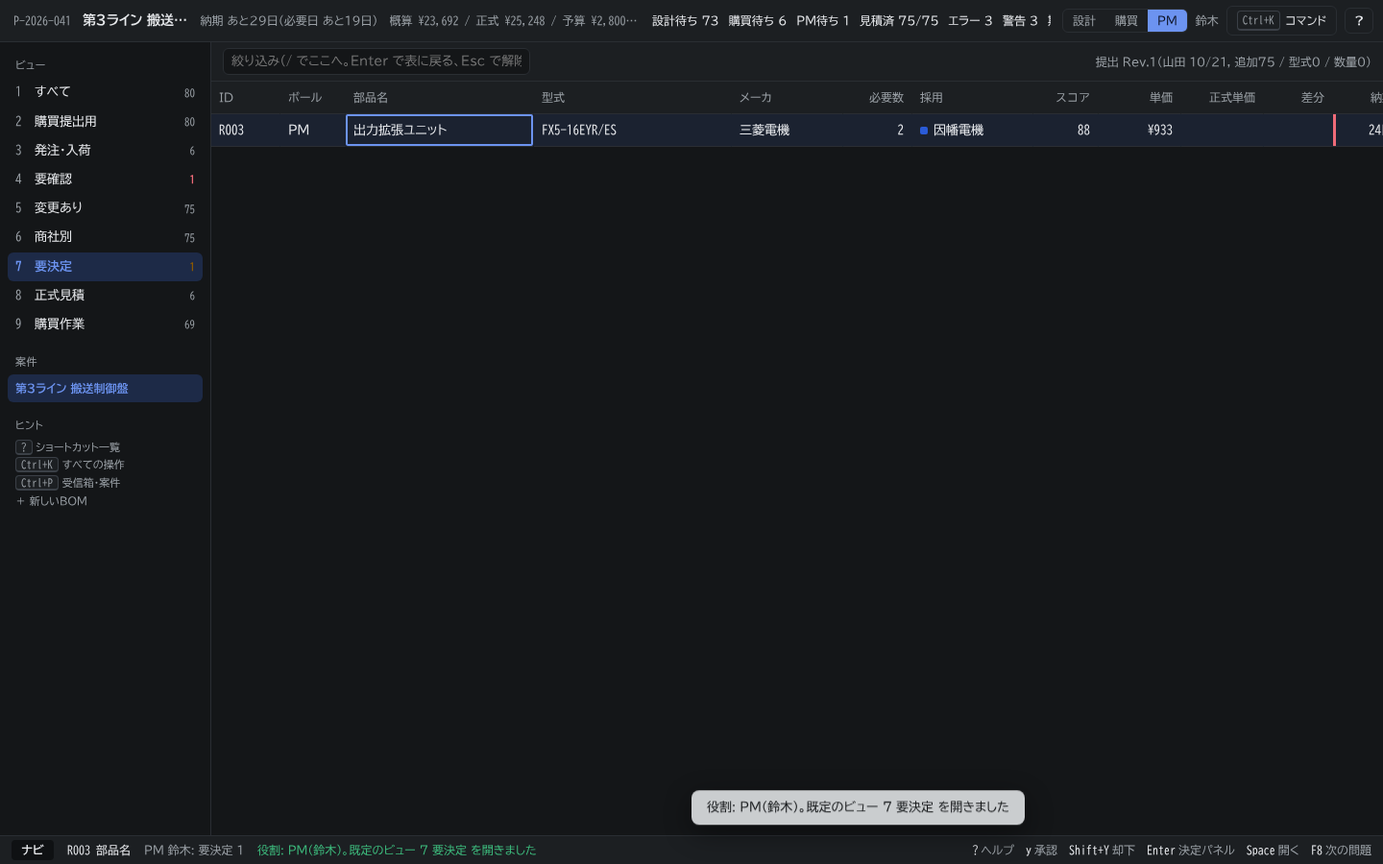
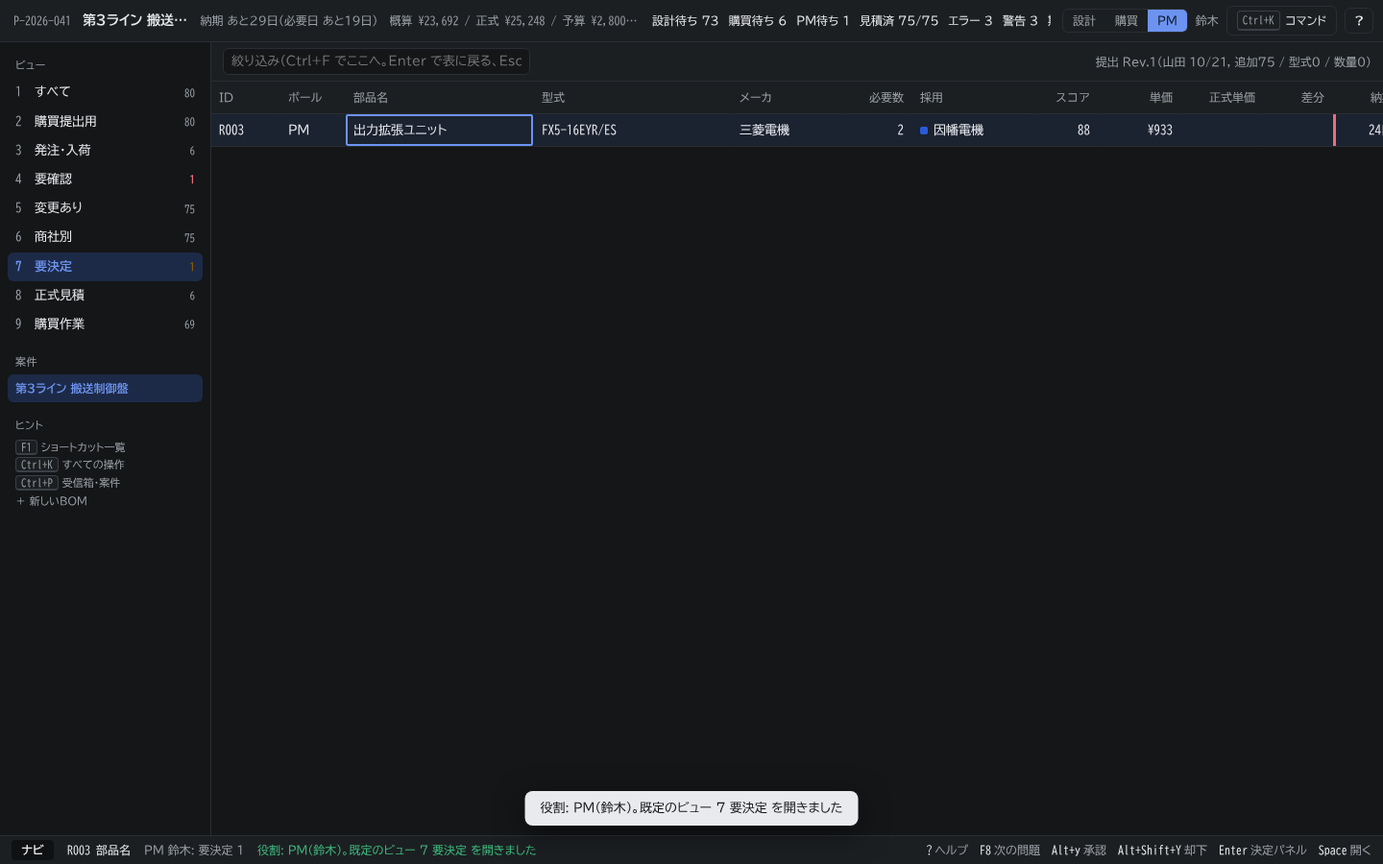
Round 8 newbie fixes: plain keys only on command columns (PM y in 7), named hints, F1/Ctrl+F, import variants
- Remove the 'no editable column → plain keys anywhere' rule; only PM's y / Shift+Y work on any column in view 7
- Non-editable-column hints name the command (「入荷済」は Alt+i) instead of echoing the last letter
- Fixed texts use F1 (help) and Ctrl+F (filter); F1 and Ctrl+F work while editing; F8 hint kept near the front
- F8 continues from the last problem even after Enter moved the cursor; issues fixed and awaiting publish are skipped
- Sheet scoring reads 30 rows; Excel-hidden columns are not imported; more total/section row variants; quote headers with units
- Select columns select-all on Enter; solid error color for white-text toasts; 特急・分納 cap guidance; cursor relocates after undo/redo

Claude-Session: https://claude.ai/code/session_01VLU869jRMj6qD9nzBFt6MK

Changed region(s): [[0.375, 0.9022, 1.0, 0.9956], [0.2188, 0.0622, 0.375, 0.0933], [0.0312, 0.4978, 0.0938, 0.5289]]

diff --git a/src/commands/registry.ts b/src/commands/registry.ts
@@ -185,7 +185,7 @@ export function startEdit(initial?: string) {
   const cur = cellText(r, s.cursorCol, vm().ctx)
   const value = initial ?? String(cur.raw ?? '')
   editProject = projectIdentity()
-  set({ mode: 'edit', editValue: value, editError: null, editAuto: false, editSelectAll: initial === undefined && value !== '' && (d.kind === 'num' || d.kind === 'date'), editBase: String(cur.raw ?? ''), editCandidates: d.kind === 'select' ? candidates(d.options ?? [], initial ?? '') : null })
+  set({ mode: 'edit', editValue: value, editError: null, editAuto: false, editSelectAll: initial === undefined && value !== '' && (d.kind === 'num' || d.kind === 'date' || d.kind === 'select'), editBase: String(cur.raw ?? ''), editCandidates: d.kind === 'select' ? candidates(d.options ?? [], initial ?? '') : null })
 }
 function toggleBool(r: Row, col: string) {
   const v = (r as unknown as Record<string, unknown>)[col] === true
@@ -351,8 +351,11 @@ function problemCells(): Array<{ rowId: string; field: string }> {
   const kinds = ISSUE_KINDS.map((k) => k.kind)
   for (const r of p.rows) {
     if (!isActive(r)) continue
+    const changed = Object.keys(r.working ?? {})
     for (const i of openIssues(p, r.id)) {
       const b = i.status === 'open' || i.status === 'inProgress' ? issues.issueBallRole(i) : i.by.role
+      // 設計が直して公開を待っている指摘（指摘のセルが作業中で変わった）は、もう直す問題として回らない
+      if (role === 'design' && b === 'design' && (i.field ? changed.includes(i.field as string) : changed.includes('model') || changed.includes('maker'))) continue
       if (b === role) out.push({ rowId: r.id, field: (i.field as string) ?? 'model', order: kinds.indexOf(i.kind) })
     }
     if (role === 'design') for (const pr of checkRow(r, s.ws.rules, p)) out.push({ rowId: r.id, field: pr.field, order: 20 + (pr.severity === 'error' ? 0 : 1) })
@@ -380,19 +383,25 @@ function gotoProblem(delta: 1 | -1): boolean {
   const idx = stay ? list.findIndex((x) => x.rowId === s.cursorRow) : list.findIndex((x) => x.rowId === s.cursorRow && x.field === s.cursorCol)
   let next = idx < 0 ? (delta > 0 ? 0 : list.length - 1) : (idx + delta + list.length) % list.length
   // 直した・確認した問題は一覧から消えるので、前に飛んだ位置から続ける（先頭に戻って間の問題を飛ばさない）
-  if (idx < 0 && lastProblem && lastProblem.rowId === s.cursorRow) {
-    const at = Math.min(lastProblem.idx, list.length) // 消えた問題の次は同じ番号に詰まっている
-    next = delta > 0 ? at % list.length : (at - 1 + list.length) % list.length
+  // （直したあと Enter で下の行へ移っていても同じ）
+  if (idx < 0 && lastProblem) {
+    const lp = lastProblem
+    const j = list.findIndex((x) => x.rowId === lp.rowId && x.field === lp.field)
+    if (j >= 0) next = (j + delta + list.length) % list.length
+    else {
+      const at = Math.min(lp.idx, list.length) // 消えた問題の次は同じ番号に詰まっている
+      next = delta > 0 ? at % list.length : (at - 1 + list.length) % list.length
+    }
   }
   // 列を変えないときは、同じ行の別の問題を飛ばして次の行へ
   if (stay && idx >= 0) while (list[next].rowId === s.cursorRow && next !== idx) next = (next + delta + list.length) % list.length
-  lastProblem = { rowId: list[next].rowId, idx: next }
+  lastProblem = { rowId: list[next].rowId, field: list[next].field, idx: next }
   if (stay) jumpToRow(list[next].rowId)
   else jumpToRow(list[next].rowId, list[next].field)
   return true
 }
 /** 最後に F8 / n で飛んだ問題（行と一覧の中の番号） */
-let lastProblem: { rowId: string; idx: number } | null = null
+let lastProblem: { rowId: string; field: string; idx: number } | null = null
 
 // ---------- Ctrl+. 候補 ----------
 export function quickfixOptions(r: Row, field: string): PanelOption[] {
@@ -636,7 +645,12 @@ function decideWithReason(rowId: string, kind: Parameters<typeof pm.decide>[1]) 
     }
     let amount: number | undefined
     // 特急・分納は上限金額を入れる（§9.1「上限入力」）
-    if (kind === '特急・分納' && !(extra?.['上限金額'] ?? '').trim()) return '特急・分納の上限金額を入れてください（例: 30000）'
+    if (kind === '特急・分納' && !(extra?.['上限金額'] ?? '').trim())
+      return /^[\d,.¥￥円\s]+$/.test(text.trim()) && text.trim()
+        ? `「${text.trim()}」は理由の欄に入っています。Tab で下の「上限金額」の欄へ移って金額を入れ、理由の欄には理由を書いてください`
+        : '特急・分納の上限金額を入れてください（Tab で下の「上限金額」の欄へ。例: 30000）'
+    // 理由の欄に金額だけを入れたまま確定しない（理由が「50000」と残らないように）
+    if (kind === '特急・分納' && /^[\d,.¥￥円\s]+$/.test(text.trim()) && text.trim()) return '理由の欄が金額だけです。理由を書いてください（金額は「上限金額」の欄）'
     if (extra?.['上限金額']) {
       const n = parseNumber(extra['上限金額'], { min: 0, label: '上限金額' })
       if (!n.ok) return n.error
@@ -1012,9 +1026,14 @@ export function runCommand(id: string, e?: KeyboardEvent): void {
       s.commitWs('', () => {})
       return toast('保存しました（編集は自動で保存されています）', 'ok')
     case 'undo':
-      return s.undoLast()
-    case 'redo':
-      return s.redoLast()
+    case 'redo': {
+      // 戻した・やり直した結果、カーソルの行が消えた（置換で作った行など）ときは近くの行へ
+      const before = vm().rows.map((x) => x.id)
+      if (id === 'undo') s.undoLast()
+      else s.redoLast()
+      keepCursorVisible(before)
+      return
+    }
     case 'export.excel': {
       const done = (label: string, sid?: string) => (m: typeof import('@/io/excel')) =>
         m
@@ -1654,7 +1673,7 @@ export const STATIC: Array<{ id: string; label: string; section: string; desc?: 
   { id: 'theme.toggle', label: 'ダークモード切替', section: '表示', keywords: 'ダーク 暗い 暗く 明るく ライト テーマ 色' },
   { id: 'density.toggle', label: 'コンパクト表示切替', section: '表示', keywords: '行の高さ 小さく 大きく 文字 拡大 縮小 見やすく' },
   { id: 'sort.asc', label: '今の列で並び替え', section: '表示', desc: 's 昇順 / Shift+S 降順。列見出しのクリックでも', keywords: 'ソート sort 並べ替え 順番' },
-  { id: 'filter.focus', label: '絞り込み検索', section: '表示', desc: '/ で入力欄へ', keywords: 'フィルタ filter 検索 探す さがす' },
+  { id: 'filter.focus', label: '絞り込み検索', section: '表示', desc: 'Ctrl+F で入力欄へ', keywords: 'フィルタ filter 検索 探す さがす' },
   { id: 'columns.panel', label: '列の表示・非表示', section: '表示', keywords: '列 カラム 隠す 見えない' },
   { id: 'goto', label: '行へジャンプ（ID・回路記号・型式）', section: '表示', keywords: '移動 ジャンプ 探す 行へ' },
   { id: 'row.toggleHidden', label: '行を隠す / 隠した行を戻す', section: '編集', desc: '隠した行は 1 すべてに薄く出ます', keywords: '非表示 隠した 隠す 戻す 表示' },

diff --git a/src/commands/keyboard.ts b/src/commands/keyboard.ts
@@ -11,7 +11,7 @@ import * as adopt from '@/actions/adopt'
 import * as pm from '@/actions/pm'
 import * as rows from '@/actions/rows'
 import { settingsFields } from '@/ui/settingsFields'
-import { ROLE_DEFAULT_VIEW, vm, cancelEdit, closePanel, colsForPanel, commitEdit, createProjectFromWizard, ensureCursor, gotoProblem, jumpToRow, moveCursorRow, openQuickfix, paletteItems, problemCells, prompt, runCommand, saveSettings, setView, startEdit, updateEditValue, validateSetting, validateWizardStep, visibleCursorRow } from './registry'
+import { ROLE_DEFAULT_VIEW, cancelEdit, closePanel, colsForPanel, commitEdit, createProjectFromWizard, ensureCursor, gotoProblem, jumpToRow, moveCursorRow, openQuickfix, paletteItems, problemCells, prompt, runCommand, saveSettings, setView, startEdit, updateEditValue, validateSetting, validateWizardStep, visibleCursorRow } from './registry'
 
 const st = () => useStore.getState()
 const set = (p: Partial<State>) => useStore.setState(p)
@@ -73,7 +73,7 @@ function handlePanelKey(key: string, e: KeyboardEvent): boolean {
         if (it) {
           set({ recentCommands: [it.id, ...s.recentCommands.filter((x) => x !== it.id)].slice(0, 20) })
           it.run()
-        } else toast('該当する操作がありません（? でショートカット一覧）', 'info')
+        } else toast('該当する操作がありません（F1 でショートカット一覧）', 'info')
         return true
       }
       return key === 'Ctrl+K' ? (closePanel(), true) : false
@@ -419,8 +419,8 @@ export function onCommandCell(ch = ''): boolean {
   if (s.cursorCol === 'id' || s.cursorCol === 'status' || colDef(s.cursorCol)?.kind === 'bool') return true
   // 自分が書けない列では、数字・記号は 1 キー操作（値にならないので、打ち間違えても何も書き換わらない）
   if ((/^\d$/.test(ch) || sym) && rows.canEdit(s.cursorCol)) return true
-  // このビューに自分が書ける列が 1 つも無いとき（PM はどの列も書かない）は、どの列でも 1 キー操作（§9.1: 7 の y / Shift+Y）
-  return !vm().columns.some((c) => !rows.canEdit(c))
+  // §9.1: PM の 7 では y / Shift+Y がどの列でもそのまま効く（ほかの英字は単語を打ったときに 1 文字ずつ操作にならないよう Alt）
+  return s.user().role === 'pm' && s.view === 7 && (ch === 'y' || ch === 'Y')
 }
 /** Alt+英字・Alt+数字 → その 1 キー操作（Alt 付きで別に決まっている操作があればそちらが先） */
 function altBinding(key: string) {
@@ -572,7 +572,7 @@ export function handleKeyDown(e: KeyboardEvent) {
       return
     }
     // 編集中のグローバルキー: 確定してから実行（Ctrl+Z はブラウザの入力欄の取り消しに任せる）
-    if (['Ctrl+K', 'Ctrl+S', 'Ctrl+Enter', 'Ctrl+E', 'Ctrl+P', 'Ctrl+G', 'Ctrl+Shift+C', 'Ctrl+.', 'Ctrl+Shift+F'].includes(key)) {
+    if (['Ctrl+K', 'Ctrl+S', 'Ctrl+Enter', 'Ctrl+E', 'Ctrl+P', 'Ctrl+G', 'Ctrl+Shift+C', 'Ctrl+.', 'Ctrl+Shift+F', 'Ctrl+F', 'F1'].includes(key)) {
       e.preventDefault()
       const b = lookupBinding(key, 'nav')
       if (b && commitEdit('stay')) runCommand(b.id, e)
@@ -592,7 +592,7 @@ export function handleKeyDown(e: KeyboardEvent) {
     runCommand(b.id, e)
     return
   }
-  if (/^(Ctrl\+)?Alt\+(Shift\+)?[A-Z0-9]$/.test(key)) return toast(`${key} は割り当てがありません（? でキーの一覧）`, 'info')
+  if (/^(Ctrl\+)?Alt\+(Shift\+)?[A-Z0-9]$/.test(key)) return toast(`${key} は割り当てがありません（F1 でキーの一覧）`, 'info')
   // 割り当ての無い文字 → 上書き編集（Excel と同じ）
   const ch = e.key
   if (ch.length === 1 && !e.ctrlKey && !e.metaKey && !e.altKey) {
@@ -600,7 +600,12 @@ export function handleKeyDown(e: KeyboardEvent) {
     const r = visibleCursorRow()
     if (!r) return toast('行を選んでください（↓ で先頭の行へ、F8 で最初の問題へ。英字の 1 キー操作は Alt を押しながら）', 'info')
     const err = rows.canEdit(s.cursorCol)
-    if (err) return toast(`${err}。1 キー操作は Alt を押しながら（例: ${/[A-Z]/.test(ch) ? `Alt+Shift+${ch}` : `Alt+${ch}`}）か、ID の列で`, 'info')
+    if (err) {
+      // 打ったキーの操作名も書く（単語を打ったときに、最後の文字の操作を知らずに Alt で押さないように）
+      const alt = /[A-Z]/.test(ch) ? `Alt+Shift+${ch}` : `Alt+${ch}`
+      const bound = lookupBinding(/[A-Z]/.test(ch) ? `Shift+${ch}` : ch, 'nav')
+      return toast(`${err}。${bound ? `「${bound.label}」は ${alt}（または ID の列で ${ch}）` : '1 キー操作は Alt を押しながらか、ID の列で'}。キーの一覧は F1`, 'info')
+    }
     startEdit(ch)
   }
 }

diff --git a/src/io/paste.ts b/src/io/paste.ts
@@ -149,9 +149,9 @@ export function parseBomPaste(text: string): PasteResult {
 
   if (hasHeader && !mapping.includes('name') && !mapping.includes('model')) warnings.push('見出しに「部品名」「型式」に当たる列がありません')
   // 小計・合計の行は部品ではない
-  const isTotal = (l: string[]) => l.some(isTotalCell)
+  const isTotal = (l: string[]) => l.some(isTotalCell) || isSectionLine(l)
   const totals = lines.slice(hasHeader ? 1 : 0).filter(isTotal).length
-  if (totals) warnings.push(`小計・合計の ${totals} 行は取り込みません`)
+  if (totals) warnings.push(`小計・合計・区切りの ${totals} 行は取り込みません`)
   const body = (hasHeader ? lines.slice(1) : lines).filter((l) => !isTotal(l))
   // 見出しが「Item」「No」でも中身が番号だけの列は部品名にしない（行番号の列）
   mapping = mapping.map((f, j) => (f === 'name' && body.length > 0 && body.every((l) => /^\s*\d+\s*$/.test(l[j] ?? '')) ? null : f))
@@ -209,13 +209,17 @@ export async function xlsxToTsv(buf: ArrayBuffer): Promise<string> {
   // シートが複数あるときは、見出し（部品名・型式・数量 など）のあるシートを読む（表紙・改訂履歴を部品にしない）
   const sheets = wb.worksheets.map((ws) => {
     const lines: string[] = []
+    // 非表示の列（Excel で隠した旧型式の列など）も取り込まない
+    const hiddenCols = new Set<number>()
+    for (let c = 1; c <= ws.columnCount; c++) if (ws.getColumn(c).hidden) hiddenCols.add(c)
     ws.eachRow({ includeEmpty: false }, (row) => {
       // 非表示の行（Excel で隠した行）は取り込まない
       if (row.hidden) return
-      const vals = (row.values as unknown[]).slice(1).map((v) => cellToText(v).replace(/[\t\n\r]/g, ' '))
+      const vals = (row.values as unknown[]).slice(1).map((v) => cellToText(v).replace(/[\t\n\r]/g, ' ')).filter((_, j) => !hiddenCols.has(j + 1))
       lines.push(vals.join('\t'))
     })
-    const score = lines.slice(0, 10).reduce((m, l) => Math.max(m, l.split('\t').map(detectField).filter(Boolean).length), 0)
+    // 見出しは上から 30 行まで探す（貼り付けの見出し探しと同じ。表題欄が長いシート）
+    const score = lines.slice(0, 30).reduce((m, l) => Math.max(m, l.split('\t').map(detectField).filter(Boolean).length), 0)
     return { name: ws.name, text: lines.join('\n'), score, rows: lines.length }
   })
   if (!sheets.length) return ''
@@ -254,5 +258,12 @@ function cellToText(v: unknown): string {
 
 /** 小計・合計の行のラベル（「合計」「合計金額」「Grand Total:」など。どの列にあっても） */
 export function isTotalCell(c: string): boolean {
-  return /^(小計|合計|総計|計|total|sub\s*total|grand\s*total)(金額|額|数|数量|点数|amount|qty)?\s*[:：]?$/i.test(c.trim())
+  const t = c.replace(/[\s　]/g, '')
+  if (/^(以下余白|以下空白|以上)$/.test(t)) return true
+  return /^(小計|合計|総計|総合計|計|total|subtotal|grandtotal)(金額|額|数|数量|点数|amount|qty)?[:：]?([（(][^）)]*[）)])?$/i.test(t)
+}
+/** 区切り・分類の見出しの行（「■ 制御部」「【電源】」だけが入った行）。部品ではない */
+export function isSectionLine(cells: string[]): boolean {
+  const filled = cells.map((c) => c.trim()).filter(Boolean)
+  return cells.length > 1 && filled.length === 1 && /^[■□◆◇●○▼▽▲△★☆【［]/.test(filled[0])
 }

diff --git a/src/actions/quotes.ts b/src/actions/quotes.ts
@@ -1,4 +1,4 @@
-import { isTotalCell } from '@/io/paste'
+import { isSectionLine, isTotalCell } from '@/io/paste'
 import { useStore } from '@/model/store'
 import type { Project, Quote, Row } from '@/model/types'
 import { fixedSupplierId, handlesMaker, hasWork, isActive, isFixedProcurement, isQuotable, normalizeModel, orderQty, rowNeedDate } from '@/model/derive'
@@ -105,12 +105,14 @@ export function importQuoteAnswers(text: string, supplierId: string): ImportResu
   const lines = text.replace(/\r/g, '').split('\n').filter((l) => l.trim())
   if (!lines.length) return res
   // 依頼書のシートを丸ごと貼ったとき（表題・依頼No の行が先にある）も、見出しの行を探す
+  // 見出しの「単価（円）」「納期(日)」のような単位の注記・空白は外して見る
+  const headCell = (h: string) => h.replace(/[（(][^）)]*[）)]/g, '').replace(/[\s　]/g, '')
   const isHeader = (l: string) => {
-    const hs = l.split('\t').map((h) => h.trim())
+    const hs = l.split('\t').map(headCell)
     return (hs.includes('行ID') || hs.includes('ID')) && hs.includes('単価')
   }
   const headerAt = lines.slice(0, 20).findIndex(isHeader)
-  const header = (headerAt >= 0 ? lines[headerAt] : lines[0]).split('\t').map((h) => h.trim())
+  const header = (headerAt >= 0 ? lines[headerAt] : lines[0]).split('\t').map(headCell)
   const idx = (...names: string[]) => header.findIndex((h) => names.includes(h))
   const col = { id: idx('行ID', 'ID'), model: idx('型式'), price: idx('単価'), lead: idx('納期'), moq: idx('MOQ'), stock: idx('在庫区分', '在庫'), qty: idx('見積数量'), valid: idx('有効期限'), altModel: idx('代替型式'), altMaker: idx('代替メーカ', '代替メーカー'), altPrice: idx('代替単価'), altLead: idx('代替納期') }
   const hasHeader = col.id >= 0 && col.price >= 0
@@ -129,11 +131,11 @@ export function importQuoteAnswers(text: string, supplierId: string): ImportResu
     for (const line of body) {
       const cells = line.split('\t')
       // 小計・合計の行は回答ではない
-      if (cells.some(isTotalCell)) continue
+      if (cells.some(isTotalCell) || isSectionLine(cells)) continue
       const id = (hasHeader ? get(cells, col.id) : get(cells, 0)).toUpperCase()
       const r = p.rows.find((x) => x.id === id)
       if (!r || !isActive(r)) {
-        res.unmatched.push(id || line.slice(0, 20))
+        res.unmatched.push(id || line.replace(/\t+/g, ' ').trim().slice(0, 20))
         continue
       }
       if (r.status === 'ordered' || r.status === 'received') {

diff --git a/src/ui/StatusBar.tsx b/src/ui/StatusBar.tsx
@@ -44,8 +44,8 @@ export function StatusBar({ vm }: { vm: ViewModel }) {
   } else if (st.mode === 'nav' && !row) hints.push(['ArrowDown', '表へ'], ['n', '次の問題'])
   else if (st.mode === 'edit') hints.push(['Enter', '確定して下へ'], ['Tab', '確定して右へ'], ['Escape', '取り消し'])
   hints.push(['?', 'ヘルプ'])
-  // 幅が足りないときに切れないよう、公開とヘルプを先頭に
-  for (const k of ['?', 'Ctrl+Enter']) {
+  // 幅が足りないときに切れないよう、公開・ヘルプ・次の問題を先頭に
+  for (const k of ['F8', '?', 'Ctrl+Enter']) {
     const i = hints.findIndex((h) => h[0] === k)
     if (i > 0) hints.unshift(...hints.splice(i, 1))
   }
@@ -53,7 +53,7 @@ export function StatusBar({ vm }: { vm: ViewModel }) {
   if (st.mode === 'nav' && !onCommandCell('a')) for (const h of hints) if (/^(Shift\+)?[A-Za-z]$/.test(h[0])) h[0] = h[0] === 'n' ? 'F8' : `Alt+${h[0]}`
   if (!row) for (const h of hints) if (h[0] === 'n') h[0] = 'F8'
   // 文字を打てるセルでは ? も値になるので、ヘルプは F1 で案内する
-  if (st.mode === 'nav' && !onCommandCell('?')) for (const h of hints) if (h[0] === '?') h[0] = 'F1'
+  if (st.mode !== 'nav' || !onCommandCell('?')) for (const h of hints) if (h[0] === '?') h[0] = 'F1'
   const problemHint = (() => {
     if (!row) return ''
     const iss = openIssues(p, row.id).filter((i) => i.status === 'open' || i.status === 'inProgress')

diff --git a/src/styles/app.css b/src/styles/app.css
@@ -203,9 +203,9 @@ table.quotes th, table.quotes td { white-space: nowrap; padding: 4px 10px; }
 table.quotes tr.focus td, .issues li.focus { outline: 2px solid var(--accent); outline-offset: -2px; }
 /* トースト: 見落とさない大きさで表の下に浮かせる */
 .toast-float { position: fixed; left: 50%; bottom: 40px; transform: translateX(-50%); max-width: min(900px, 92vw); padding: 9px 16px; border-radius: 8px; background: var(--fg); color: var(--bg); font-size: 13px; box-shadow: var(--shadow); z-index: 60; pointer-events: none; animation: pop var(--dur) ease-out; }
-.toast-float.err { background: var(--err); color: #fff; }
+.toast-float.err { background: var(--err-solid); color: #fff; }
 .toast-float.ok { background: var(--ok); color: #fff; }
-.edit-error { position: absolute; z-index: 6; margin-top: 2px; background: var(--err); color: #fff; font-size: 11px; padding: 2px 6px; border-radius: 4px; white-space: nowrap; }
+.edit-error { position: absolute; z-index: 6; margin-top: 2px; background: var(--err-solid); color: #fff; font-size: 11px; padding: 2px 6px; border-radius: 4px; white-space: nowrap; }
 .empty-state { padding: 28px; color: var(--fg-muted); line-height: 1.9; }
 .empty-state kbd { margin: 0 2px; }
 .crash { padding: 40px; max-width: 760px; margin: 0 auto; line-height: 1.8; }

diff --git a/src/keys/keymap.ts b/src/keys/keymap.ts
@@ -24,7 +24,7 @@ export const KEYMAP: KeyBinding[] = [
   { id: 'export.excel', keys: ['Ctrl+E'], mode: 'any', section: '全体', label: 'Excelで出力' },
   { id: 'copy.formatted', keys: ['Ctrl+Shift+C'], mode: 'any', section: '全体', label: '表示中の行と列を書式つきでコピー' },
   { id: 'goto', keys: ['Ctrl+G'], mode: 'any', section: '全体', label: 'ID・型式・Noでジャンプ' },
-  { id: 'filter.focus', keys: ['/'], mode: 'nav', section: '全体', label: '絞り込み検索にフォーカス' },
+  { id: 'filter.focus', keys: ['/', 'Ctrl+F'], mode: 'nav', section: '全体', label: '絞り込み検索にフォーカス' },
   { id: 'help', keys: ['?', 'F1'], mode: 'nav', section: '全体', label: 'ショートカット一覧', hint: '?' },
   { id: 'escape', keys: ['Escape'], mode: 'any', section: '全体', label: '1段階戻る' },
   { id: 'wizard.back', keys: ['Alt+ArrowLeft'], mode: 'nav', section: '全体', label: 'ガイドで1つ前の段階へ（新しいBOM）' },

diff --git a/src/App.tsx b/src/App.tsx
@@ -139,7 +139,7 @@ function Main() {
       <Side vm={vm} />
       <main className="main">
         <div className="toolbar">
-          <input className="filter" placeholder="絞り込み（/ でここへ。Enter で表に戻る、Esc で解除）" value={st.filter} onChange={(e) => st.set({ filter: e.target.value })} data-testid="filter" />
+          <input className="filter" placeholder="絞り込み（Ctrl+F でここへ。Enter で表に戻る、Esc で解除）" value={st.filter} onChange={(e) => st.set({ filter: e.target.value })} data-testid="filter" />
           {st.filter && <span className="muted" style={{ fontSize: 12 }}>{vm.rows.length} 行</span>}
           {st.cellFilter && (
             <span className="chip" style={{ cursor: 'pointer' }} onClick={() => st.set({ cellFilter: null })} title="クリックか f / Esc で解除">

diff --git a/src/ui/Side.tsx b/src/ui/Side.tsx
@@ -28,7 +28,7 @@ export function Side({ vm }: { vm: ViewModel }) {
       ))}
       <h3 style={{ marginTop: 16 }}>ヒント</h3>
       <div className="muted" style={{ fontSize: 11, padding: '0 8px', lineHeight: 1.7 }}>
-        <span className="clickable" onClick={() => runCommand('help')}><kbd>?</kbd> ショートカット一覧</span><br />
+        <span className="clickable" onClick={() => runCommand('help')}><kbd>F1</kbd> ショートカット一覧</span><br />
         <span className="clickable" onClick={() => runCommand('palette.open')}><kbd>Ctrl+K</kbd> すべての操作</span><br />
         <span className="clickable" onClick={() => runCommand('project.switch')}><kbd>Ctrl+P</kbd> 受信箱・案件</span><br />
         <span className="clickable" onClick={() => runCommand('project.new')}>＋ 新しいBOM</span>

diff --git a/src/io/paste.test.ts b/src/io/paste.test.ts
@@ -87,3 +87,14 @@ describe('合計の行', () => {
     expect(r.rows.length).toBe(1)
   })
 })
+
+describe('合計・区切りの行（表記ゆれ）', () => {
+  it('「合　計」「小 計」「合計（税抜）」「総合計」「以下余白」「■ 制御部」を飛ばす', () => {
+    const r = parseBomPaste('部品名\t型式\tメーカ\t数量\n■ 制御部\t\t\t\nリレー\tMY4N\tオムロン\t2\n\t\t合　計\t2\n\t\t小 計\t2\n\t\t合計（税抜）\t9\n\t\t総合計\t9\n以下余白\t\t\t')
+    expect(r.rows.map((x) => x.model)).toEqual(['MY4N'])
+  })
+  it('1 列だけの貼り付けでは、記号で始まる値を区切りとみなさない', () => {
+    const r = parseBomPaste('型式\n【A】CN-12\nMY4N')
+    expect(r.rows.length).toBe(2)
+  })
+})

diff --git a/src/ui/Panels.tsx b/src/ui/Panels.tsx
@@ -109,7 +109,7 @@ function PanelBody({ panel }: { panel: Panel }) {
                 </span>
               </div>
             ))}
-            {items.length === 0 && <div className="item muted">該当する操作がありません。? でショートカット一覧、「ヘルプ」と打つと使い方</div>}
+            {items.length === 0 && <div className="item muted">該当する操作がありません。F1 でショートカット一覧、「ヘルプ」と打つと使い方</div>}
           </div>
           <Foot items={[['Enter', '実行'], ['ArrowUp', '/ ↓ 選択'], ['Escape', '閉じる']]} />
         </div>

diff --git a/src/styles/tokens.css b/src/styles/tokens.css
@@ -12,6 +12,7 @@
   --accent-soft: #e6ecfb;
   --accent-fg: #ffffff;
   --err: #d02a3c;
+  --err-solid: #c42536;
   --err-soft: #fbe8ea;
   --warn: #e39a00;
   /* 文字に使う警告色（淡い背景の上でも読める濃さ） */
@@ -45,6 +46,7 @@
     --accent-soft: #1d2a47;
     --accent-fg: #0b1020;
     --err: #ef6b78;
+    --err-solid: #b3243a;
     --err-soft: #3a1b20;
     --warn: #f0b429;
   --warn-text: #f0b429;
@@ -71,6 +73,7 @@
   --accent-soft: #1d2a47;
   --accent-fg: #0b1020;
   --err: #ef6b78;
+  --err-solid: #b3243a;
   --err-soft: #3a1b20;
   --warn: #f0b429;
   --warn-soft: #3a2e12;
